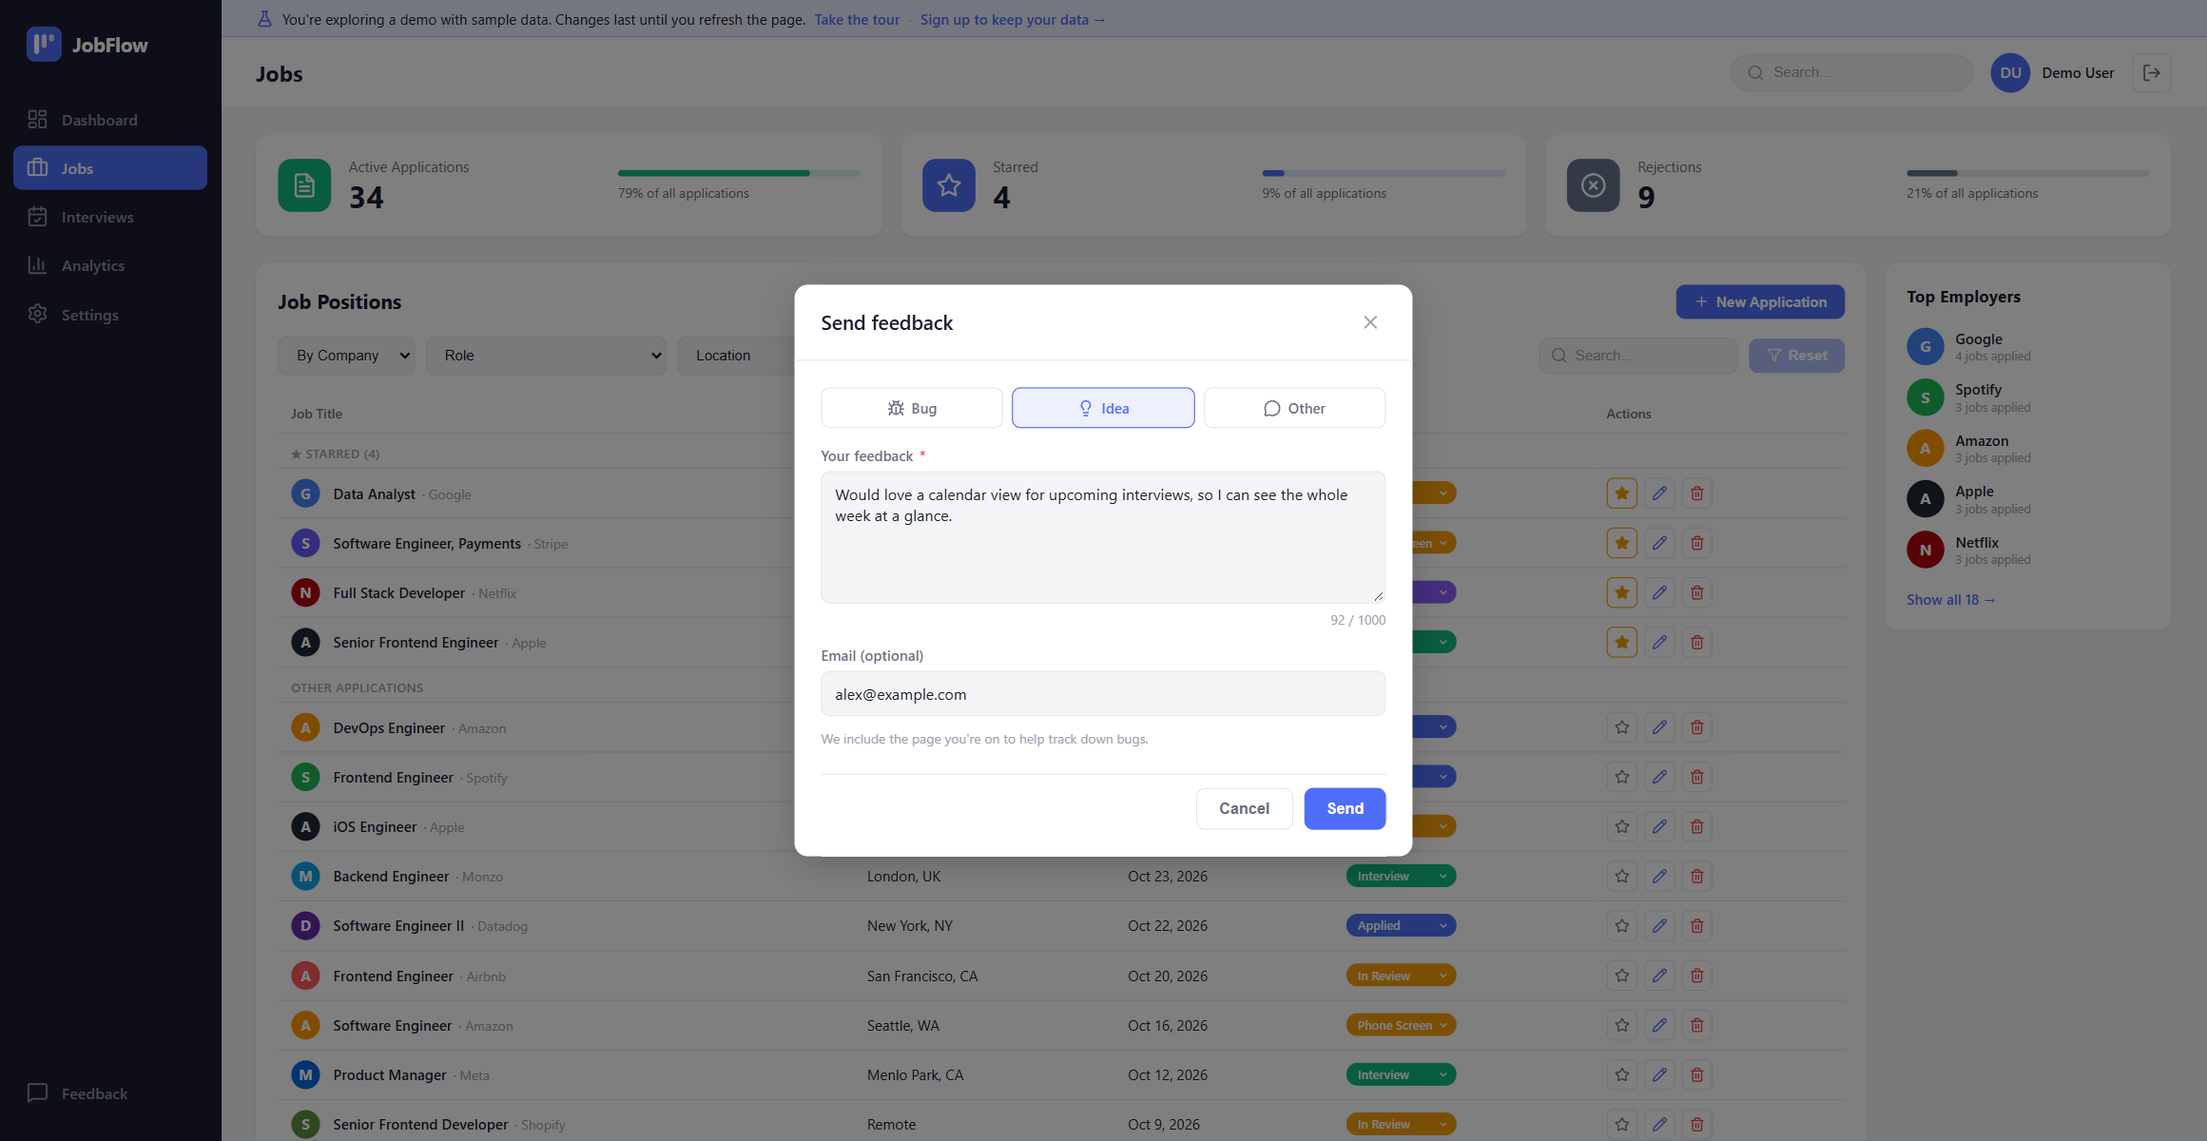
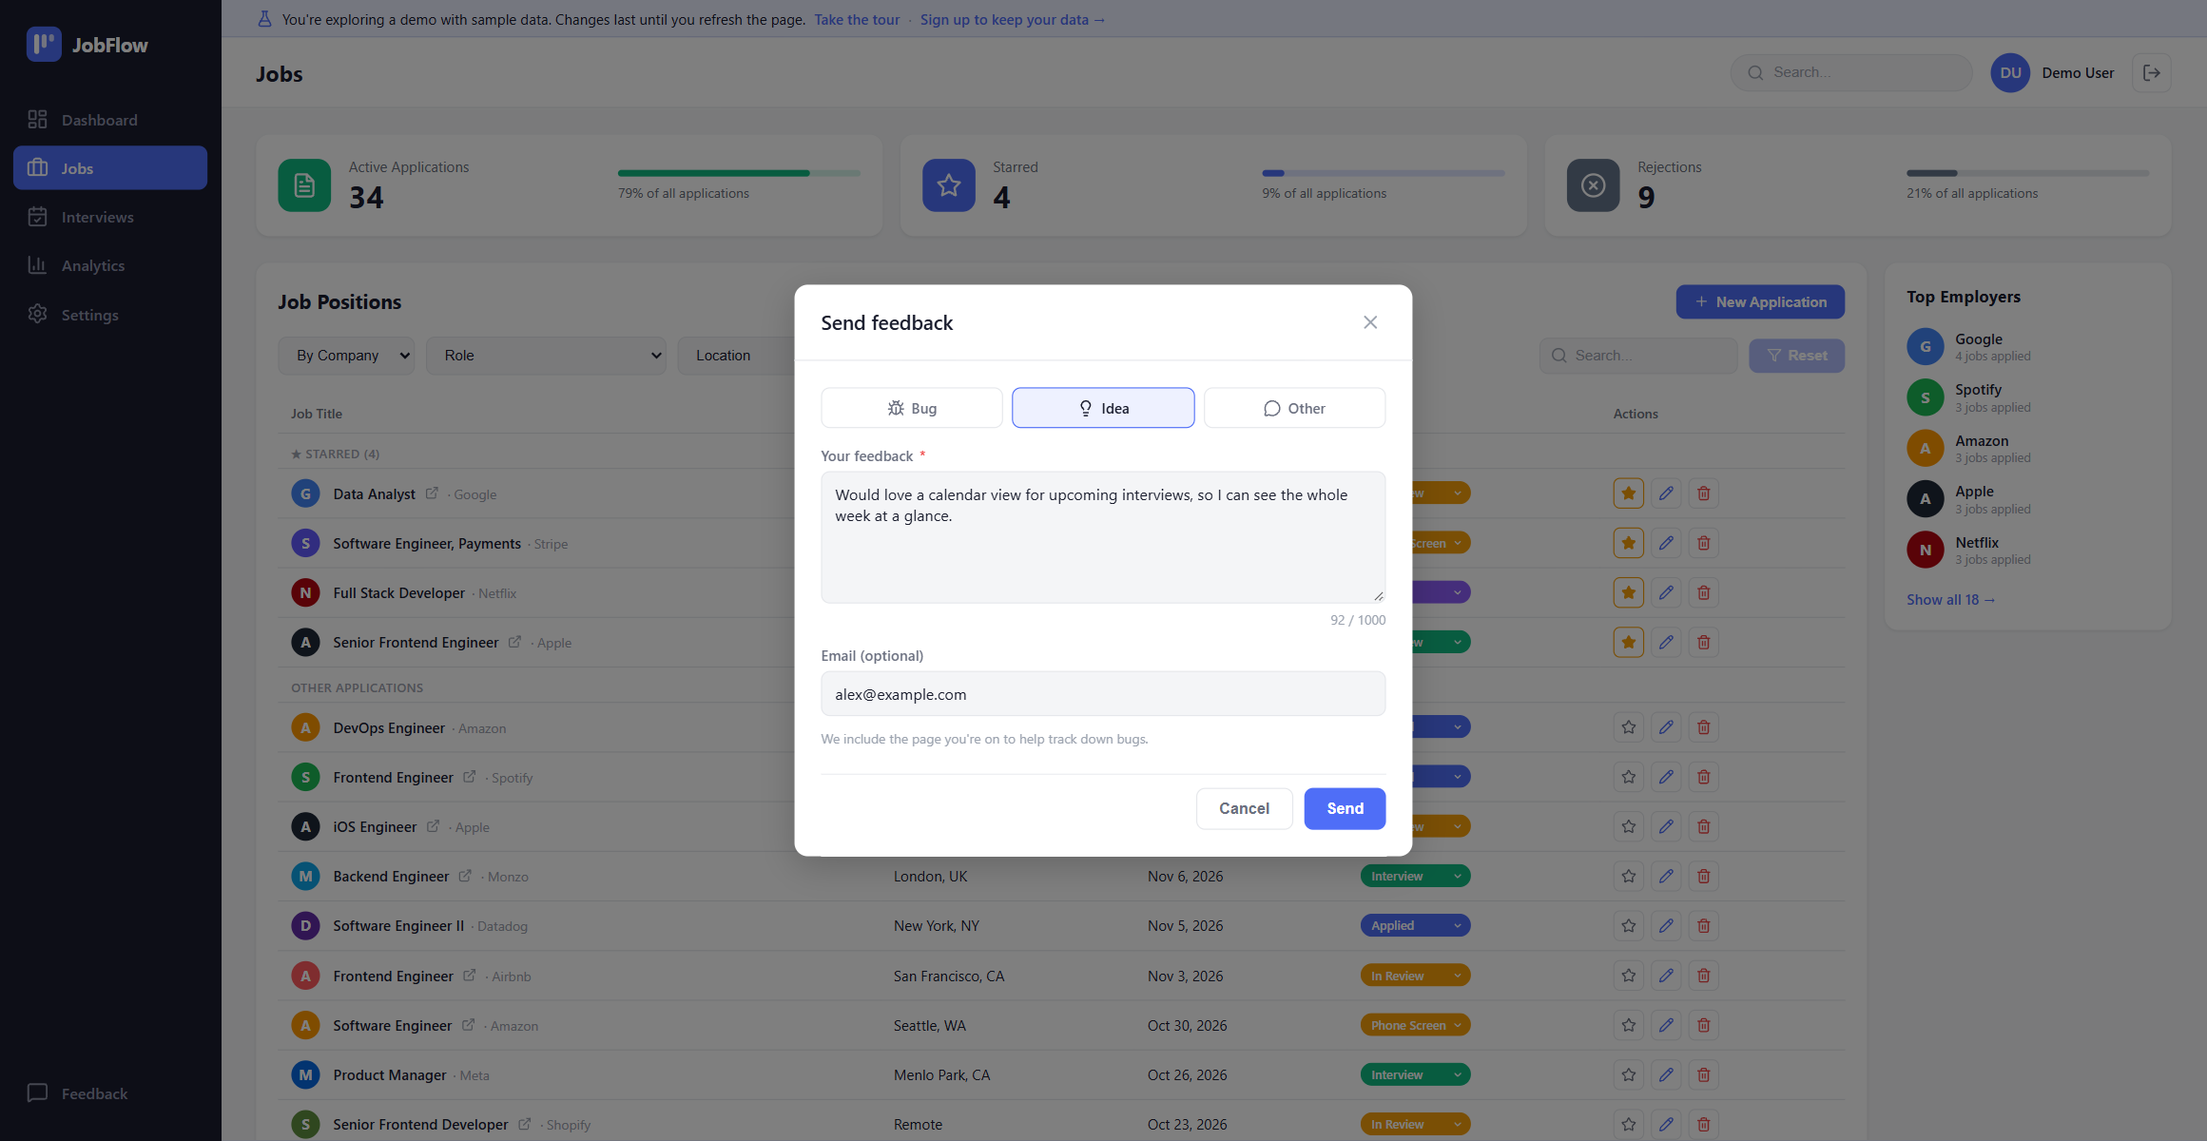
Save a job posting link with each application
Adds an optional job URL (V12 migration) that the form can set and the
Jobs table opens in a new tab. Only http(s) links are stored, since the
value ends up as a clickable link. A bare "linkedin.com/..." gets https://
added in the form. Also included in the CSV export.

Demo jobs link to each company's real careers page, since specific
postings come down within weeks. Retook jobs.png and feedback.png.

diff --git a/job-flow-frontend/src/api/mockData.ts b/job-flow-frontend/src/api/mockData.ts
@@ -145,6 +145,34 @@ const SEED_ROWS: SeedRow[] = [
   [43, 'Machine Learning Engineer', 'Wealthsimple', 'CA$150,000', 66, 'REJECTED', 49, 'Rejected'],
 ];
 
+// Each company's real careers page stands in for a posting link: specific postings
+// come down within weeks, these don't. Checked by hand (final URL after redirects).
+const CAREERS_PAGES: Record<string, string> = {
+  Google: 'https://www.google.com/about/careers/applications/',
+  Spotify: 'https://www.lifeatspotify.com/jobs',
+  Meta: 'https://www.metacareers.com/jobsearch/',
+  Amazon: 'https://www.amazon.jobs/en/',
+  Apple: 'https://jobs.apple.com/en-us/search',
+  Netflix: 'https://jobs.netflix.com/',
+  Microsoft: 'https://careers.microsoft.com/',
+  Stripe: 'https://stripe.com/careers',
+  Airbnb: 'https://careers.airbnb.com/',
+  Shopify: 'https://www.shopify.com/careers',
+  Datadog: 'https://careers.datadoghq.com/',
+  Figma: 'https://www.figma.com/careers/',
+  Uber: 'https://jobs.uber.com/en/',
+  LinkedIn: 'https://careers.linkedin.com/',
+  Salesforce: 'https://www.salesforce.com/company/careers/',
+  Monzo: 'https://monzo.com/careers',
+  Wise: 'https://wise.jobs/',
+  Wealthsimple: 'https://www.wealthsimple.com/en-ca/careers',
+};
+
+// Not everyone saves the link, so about a third of the seed jobs go without one
+function seedJobUrl(id: number, companyName: string): string | null {
+  return id % 3 === 0 ? null : CAREERS_PAGES[companyName] ?? null;
+}
+
 // "CA$" before "$" so Canadian dollars aren't read as US ones
 const SEED_CURRENCIES: [string, string][] = [['CA$', 'CAD'], ['$', 'USD'], ['£', 'GBP']];
 
@@ -164,6 +192,7 @@ function createSeedApplications(companies: CompanyDTO[]): JobApplicationDTO[] {
       return {
         id, positionTitle, company, location: company.location,
         salary: salary.slice(prefix.length), salaryCurrency, status,
+        jobUrl: seedJobUrl(id, companyName),
         appliedDate: dateKey(appliedDay),
         lastAction: lastAction ?? 'Applied',
         notes: notes ?? null,
@@ -428,6 +457,7 @@ export function resolveMock(url: string, method: string, body?: unknown, params?
       location: (payload?.location as string) || null,
       salary: (payload?.salary as string) || null,
       salaryCurrency: (payload?.salaryCurrency as string) || null,
+      jobUrl: (payload?.jobUrl as string) || null,
       status: (payload?.status as ApplicationStatus) || 'APPLIED',
       appliedDate: (payload?.appliedDate as string) || todayLocal(),
       lastAction: 'Applied',
@@ -459,6 +489,7 @@ export function resolveMock(url: string, method: string, body?: unknown, params?
       location: keepOrClear(payload?.location, applications[idx].location),
       salary: keepOrClear(payload?.salary, applications[idx].salary),
       salaryCurrency: keepOrClear(payload?.salaryCurrency, applications[idx].salaryCurrency ?? null),
+      jobUrl: keepOrClear(payload?.jobUrl, applications[idx].jobUrl ?? null),
       status: newStatus,
       lastAction,
       appliedDate: (payload?.appliedDate as string) || applications[idx].appliedDate,

diff --git a/job-flow-frontend/src/components/ApplicationForm.tsx b/job-flow-frontend/src/components/ApplicationForm.tsx
@@ -18,6 +18,7 @@ import LOCATIONS, { CN_LOCATIONS, LOCATION_ALIASES } from '../data/locations';
 import JOB_TITLES, { CN_JOB_TITLES, JOB_TITLE_ALIASES } from '../data/jobTitles';
 import { mergeSuggestions } from '../utils/suggestions';
 import { SALARY_CURRENCIES, defaultCurrency } from '../utils/salary';
+import { normalizeJobUrl, isWebUrl } from '../utils/jobUrl';
 import './ApplicationForm.css';
 
 const STATUS_LABEL_KEYS: Record<ApplicationStatus, string> = {
@@ -77,6 +78,7 @@ export default function ApplicationForm({ application, history = NO_HISTORY, onS
   );
   const [status, setStatus] = useState<ApplicationStatus>(application?.status ?? 'APPLIED');
   const [appliedDate, setAppliedDate] = useState(application?.appliedDate ?? todayLocal());
+  const [jobUrl, setJobUrl] = useState(application?.jobUrl ?? '');
   const [notes, setNotes] = useState(application?.notes ?? '');
 
   useEffect(() => {
@@ -111,6 +113,8 @@ export default function ApplicationForm({ application, history = NO_HISTORY, onS
     const newErrors: Record<string, string> = {};
     if (!positionTitle.trim()) newErrors.positionTitle = t.positionRequired;
     if (!companyInput.trim()) newErrors.company = t.companyRequired;
+    const url = normalizeJobUrl(jobUrl);
+    if (url && !isWebUrl(url)) newErrors.jobUrl = t.jobUrlInvalid;
     setErrors(newErrors);
     return Object.keys(newErrors).length === 0;
   }
@@ -131,6 +135,7 @@ export default function ApplicationForm({ application, history = NO_HISTORY, onS
         salaryCurrency: salary.trim() ? salaryCurrency : '',
         status,
         appliedDate: appliedDate || undefined,
+        jobUrl: normalizeJobUrl(jobUrl),
         notes: notes.trim(),
       };
 
@@ -289,6 +294,28 @@ export default function ApplicationForm({ application, history = NO_HISTORY, onS
             onChange={(e) => setAppliedDate(e.target.value)}
           />
         </div>
+      </div>
+
+      <div className="app-form-field">
+        <label className="app-form-label" htmlFor="app-form-job-url">{t.jobUrl}</label>
+        {/* Plain text, not type="url": the browser's own check would reject a bare
+            "linkedin.com/..." that normalizeJobUrl happily fixes */}
+        <input
+          id="app-form-job-url"
+          className="app-form-input"
+          type="text"
+          inputMode="url"
+          autoComplete="off"
+          value={jobUrl}
+          onChange={(e) => {
+            setJobUrl(e.target.value);
+            clearError('jobUrl');
+          }}
+          placeholder={t.jobUrlPlaceholder}
+        />
+        {errors.jobUrl
+          ? <span className="app-form-error">{errors.jobUrl}</span>
+          : <span className="app-form-hint">{t.jobUrlHint}</span>}
       </div>
 
       <div className="app-form-field">

diff --git a/job-flow-frontend/src/pages/Jobs.tsx b/job-flow-frontend/src/pages/Jobs.tsx
@@ -1,6 +1,6 @@
 import { Fragment, useState, useMemo, useEffect, useCallback, useRef } from 'react'
 import { useSearchParams } from 'react-router-dom'
-import { Plus, Pencil, Trash2, Star } from 'lucide-react'
+import { Plus, Pencil, Trash2, Star, ExternalLink } from 'lucide-react'
 import './Jobs.css'
 import { getApplications, deleteApplication, toggleStar, updateStatus } from '../api/applications'
 import type { JobApplicationDTO, ApplicationStatus } from '../api/types'
@@ -15,6 +15,7 @@ import { sortByAppliedDate, type SortDirection } from '../utils/sortByAppliedDat
 import { formatDateOnly } from '../utils/date'
 import { companyColor as getCompanyColor } from '../utils/companyColor'
 import { markDemoTask } from '../utils/demoChecklist'
+import { isWebUrl } from '../utils/jobUrl'
 
 // How long a just-created row stays highlighted (matches the fade in Jobs.css)
 const NEW_ROW_HIGHLIGHT_MS = 2500
@@ -543,6 +544,18 @@ export default function Jobs() {
                               </span>
                               <div className="jobs-title-cell">
                                 <span className="jobs-title-name">{app.positionTitle}</span>
+                                {isWebUrl(app.jobUrl) && (
+                                  <a
+                                    className="jobs-title-link"
+                                    href={app.jobUrl}
+                                    target="_blank"
+                                    rel="noopener noreferrer"
+                                    title={t.openJobPosting}
+                                    aria-label={`${t.openJobPosting}: ${app.positionTitle}`}
+                                  >
+                                    <ExternalLink size={13} />
+                                  </a>
+                                )}
                                 <span className="jobs-title-company">{app.company.name}</span>
                               </div>
                             </div>

diff --git a/job-flow-frontend/src/components/__tests__/ApplicationForm.test.tsx b/job-flow-frontend/src/components/__tests__/ApplicationForm.test.tsx
@@ -128,6 +128,30 @@ describe('ApplicationForm', () => {
     expect(updateApplication).toHaveBeenCalledWith(1, expect.objectContaining({ salary: '30k×15', salaryCurrency: 'CNY' }));
   });
 
+  it('sends the job link with https:// added, and "" when it is cleared', async () => {
+    render(<ApplicationForm application={{ ...editApp, jobUrl: 'https://old.example/job' }} onSuccess={onSuccess} onCancel={onCancel} />, { wrapper: Wrapper });
+
+    fireEvent.change(screen.getByLabelText('Job Link'), { target: { value: 'linkedin.com/jobs/view/123' } });
+    fireEvent.click(screen.getByRole('button', { name: /save changes/i }));
+    await waitFor(() => expect(onSuccess).toHaveBeenCalled());
+    expect(updateApplication).toHaveBeenCalledWith(1, expect.objectContaining({ jobUrl: 'https://linkedin.com/jobs/view/123' }));
+
+    fireEvent.change(screen.getByLabelText('Job Link'), { target: { value: ' ' } });
+    fireEvent.click(screen.getByRole('button', { name: /save changes/i }));
+    await waitFor(() => expect(updateApplication).toHaveBeenCalledTimes(2));
+    expect(updateApplication).toHaveBeenLastCalledWith(1, expect.objectContaining({ jobUrl: '' }));
+  });
+
+  it('blocks a link that is not a web address', () => {
+    render(<ApplicationForm application={editApp} onSuccess={onSuccess} onCancel={onCancel} />, { wrapper: Wrapper });
+
+    fireEvent.change(screen.getByLabelText('Job Link'), { target: { value: 'javascript:alert(1)' } });
+    fireEvent.click(screen.getByRole('button', { name: /save changes/i }));
+
+    expect(screen.getByText('Enter a web link, like https://...')).toBeInTheDocument();
+    expect(updateApplication).not.toHaveBeenCalled();
+  });
+
   it('suggests Chinese cities when typed in pinyin', () => {
     render(<ApplicationForm onSuccess={onSuccess} onCancel={onCancel} />, { wrapper: Wrapper });
 

diff --git a/job-flow-frontend/src/i18n/apiErrors.ts b/job-flow-frontend/src/i18n/apiErrors.ts
@@ -46,6 +46,7 @@ const en = {
     INVALID_REMINDER_HOURS: 'Reminder must be {allowed} hours before',
     UNKNOWN_TIME_ZONE: 'Unknown time zone: {timeZone}',
     INVALID_SALARY_CURRENCY: 'Unknown salary currency: {currency}',
+    INVALID_JOB_URL: 'Job link must be a web address starting with http:// or https://',
     GMAIL_NOT_CONNECTED: 'Gmail is not connected. Please sign in with Google first.',
     GMAIL_RELINK_REQUIRED: 'Gmail access has expired. Please re-link your Google account.',
     GMAIL_UNAVAILABLE: 'Couldn\'t reach Gmail. Please try again in a moment.',
@@ -60,6 +61,7 @@ const en = {
     companyId: 'Company',
     location: 'Location',
     salary: 'Salary',
+    jobUrl: 'Job link',
     notes: 'Notes',
     lastAction: 'Last action',
     status: 'Status',
@@ -128,6 +130,7 @@ const zh = {
     INVALID_REMINDER_HOURS: '提醒时间只能是提前 {allowed} 小时',
     UNKNOWN_TIME_ZONE: '无法识别的时区：{timeZone}',
     INVALID_SALARY_CURRENCY: '无法识别的薪资币种：{currency}',
+    INVALID_JOB_URL: '职位链接必须是以 http:// 或 https:// 开头的网址',
     GMAIL_NOT_CONNECTED: 'Gmail 尚未连接，请先使用 Google 登录',
     GMAIL_RELINK_REQUIRED: 'Gmail 授权已失效，请重新关联 Google 账号',
     GMAIL_UNAVAILABLE: '暂时无法连接 Gmail，请稍后再试',
@@ -142,6 +145,7 @@ const zh = {
     companyId: '公司',
     location: '地点',
     salary: '薪资',
+    jobUrl: '职位链接',
     notes: '备注',
     lastAction: '最近动态',
     status: '状态',

diff --git a/job-flow-frontend/src/api/__tests__/mockData.test.ts b/job-flow-frontend/src/api/__tests__/mockData.test.ts
@@ -190,6 +190,23 @@ describe('PUT partial update', () => {
     expect(apps.filter((a) => a.salaryCurrency === 'USD')).toHaveLength(40);
   });
 
+  it('gives most seed jobs a careers-page link and leaves some without', () => {
+    const apps = resolveMock('/applications', 'get') as JobApplicationDTO[];
+    const withLink = apps.filter((a) => a.jobUrl);
+    expect(withLink.length).toBeGreaterThan(apps.length / 2);
+    expect(withLink.length).toBeLessThan(apps.length);
+    for (const app of withLink) expect(app.jobUrl).toMatch(/^https:\/\//);
+  });
+
+  it('sets, keeps and clears the job link on update', () => {
+    let result = resolveMock('/applications/1', 'put', { jobUrl: 'https://example.com/job' }) as JobApplicationDTO;
+    expect(result.jobUrl).toBe('https://example.com/job');
+    result = resolveMock('/applications/1', 'put', { notes: 'hi' }) as JobApplicationDTO;
+    expect(result.jobUrl).toBe('https://example.com/job');
+    result = resolveMock('/applications/1', 'put', { jobUrl: '' }) as JobApplicationDTO;
+    expect(result.jobUrl).toBeNull();
+  });
+
   it('keeps fields that are not sent', () => {
     const result = resolveMock('/applications/1', 'put', { notes: 'hello' }) as JobApplicationDTO;
     expect(result.location).toBe('Seattle, WA');

diff --git a/job-flow-frontend/src/utils/__tests__/jobUrl.test.ts b/job-flow-frontend/src/utils/__tests__/jobUrl.test.ts
@@ -1,0 +1,30 @@
+import { describe, it, expect } from 'vitest';
+import { normalizeJobUrl, isWebUrl } from '../jobUrl';
+
+describe('normalizeJobUrl', () => {
+  it('adds https:// to a pasted link without a scheme', () => {
+    expect(normalizeJobUrl('  linkedin.com/jobs/view/123 ')).toBe('https://linkedin.com/jobs/view/123');
+  });
+
+  it('keeps links that already have a scheme, including bad ones', () => {
+    expect(normalizeJobUrl('http://example.com/job')).toBe('http://example.com/job');
+    expect(normalizeJobUrl('javascript:alert(1)')).toBe('javascript:alert(1)');
+  });
+
+  it('turns blank input into an empty string', () => {
+    expect(normalizeJobUrl('   ')).toBe('');
+  });
+});
+
+describe('isWebUrl', () => {
+  it('accepts http and https links', () => {
+    expect(isWebUrl('https://boards.greenhouse.io/acme/jobs/1')).toBe(true);
+    expect(isWebUrl('HTTP://example.com')).toBe(true);
+  });
+
+  it.each([
+    'javascript:alert(1)', 'data:text/html,hi', 'ftp://example.com', 'https://', 'https://exa mple.com', '', null, undefined,
+  ])('rejects %s', (url) => {
+    expect(isWebUrl(url)).toBe(false);
+  });
+});

diff --git a/job-flow-frontend/src/pages/__tests__/Jobs.test.tsx b/job-flow-frontend/src/pages/__tests__/Jobs.test.tsx
@@ -346,6 +346,23 @@ describe('Jobs search and links', () => {
     } as never);
   });
 
+  it('links to the posting in a new tab, only for web links', async () => {
+    vi.mocked(getApplications).mockResolvedValue({
+      data: [
+        { ...makeApp(1, 'Alpha'), jobUrl: 'https://jobs.lever.co/acme/1' },
+        { ...makeApp(2, 'Bravo'), jobUrl: 'javascript:alert(1)' },
+        makeApp(3, 'Charlie'),
+      ],
+    } as never);
+    render(<Jobs />, { wrapper: Wrapper });
+
+    const link = await screen.findByRole('link', { name: 'Open job posting: Alpha' });
+    expect(link).toHaveAttribute('href', 'https://jobs.lever.co/acme/1');
+    expect(link).toHaveAttribute('target', '_blank');
+    expect(link).toHaveAttribute('rel', 'noopener noreferrer');
+    expect(screen.queryByRole('link', { name: /Bravo|Charlie/ })).not.toBeInTheDocument();
+  });
+
   it('finds jobs by location too', async () => {
     render(<Jobs />, { wrapper: Wrapper });
     await findTitle('Alpha');

diff --git a/job-flow-frontend/src/api/types.ts b/job-flow-frontend/src/api/types.ts
@@ -25,6 +25,7 @@ export interface JobApplicationDTO {
   location: string | null;
   salary: string | null;
   salaryCurrency?: string | null; // "USD", "CNY"; missing on older rows
+  jobUrl?: string | null; // link to the posting; missing on older rows
   status: ApplicationStatus;
   appliedDate: string | null; // ISO date string
   lastAction: string | null;
@@ -86,6 +87,7 @@ export interface CreateJobApplicationRequest {
   location?: string;
   salary?: string;
   salaryCurrency?: string;
+  jobUrl?: string;
   status?: ApplicationStatus;
   appliedDate?: string; // ISO date string (YYYY-MM-DD)
   lastAction?: string;
@@ -99,6 +101,7 @@ export interface UpdateJobApplicationRequest {
   location?: string;
   salary?: string;
   salaryCurrency?: string;
+  jobUrl?: string;
   status?: ApplicationStatus;
   appliedDate?: string;
   lastAction?: string;

diff --git a/job-flow-frontend/src/utils/jobUrl.ts b/job-flow-frontend/src/utils/jobUrl.ts
@@ -1,0 +1,19 @@
+// People often paste "linkedin.com/jobs/view/123" without the scheme; treat that as https.
+// Anything that already names a scheme is left alone, so "javascript:..." stays invalid.
+export function normalizeJobUrl(input: string): string {
+  const url = input.trim();
+  if (!url) return '';
+  return /^[a-z][a-z0-9+.-]*:/i.test(url) ? url : `https://${url}`;
+}
+
+// Same rule as the backend: http(s) with a host. Also used before rendering a link,
+// so an odd value that slipped in never becomes a clickable script link.
+export function isWebUrl(url: string | null | undefined): url is string {
+  if (!url || /\s/.test(url)) return false;
+  try {
+    const parsed = new URL(url);
+    return (parsed.protocol === 'http:' || parsed.protocol === 'https:') && parsed.hostname !== '';
+  } catch {
+    return false;
+  }
+}

diff --git a/job-flow-frontend/src/i18n/en.ts b/job-flow-frontend/src/i18n/en.ts
@@ -284,6 +284,11 @@ const en = {
   salaryPlaceholderUsd: 'e.g. 120,000/yr',
   salaryPlaceholderCny: 'e.g. 25k×16',
   appliedDate: 'Applied Date',
+  jobUrl: 'Job Link',
+  jobUrlPlaceholder: 'Paste the posting link (LinkedIn, Indeed, company site...)',
+  jobUrlHint: 'Postings often come down after a few weeks. Paste the job description into Notes if you want to keep it.',
+  jobUrlInvalid: 'Enter a web link, like https://...',
+  openJobPosting: 'Open job posting',
   notesPlaceholder: 'Any additional notes...',
   createApplication: 'Create Application',
   applicationUpdated: 'Application updated',

diff --git a/job-flow-frontend/src/i18n/zh.ts b/job-flow-frontend/src/i18n/zh.ts
@@ -284,6 +284,11 @@ const zh = {
   salaryPlaceholderUsd: '例如：120,000/yr',
   salaryPlaceholderCny: '例如：25k×16 或 30万/年',
   appliedDate: '投递日期',
+  jobUrl: '职位链接',
+  jobUrlPlaceholder: '粘贴职位链接（LinkedIn、Indeed、公司官网等）',
+  jobUrlHint: '职位下架后链接会失效，重要的职位描述建议复制到备注里。',
+  jobUrlInvalid: '请输入网址，例如 https://...',
+  openJobPosting: '打开职位页面',
   notesPlaceholder: '添加备注...',
   createApplication: '创建申请',
   applicationUpdated: '申请已更新',
